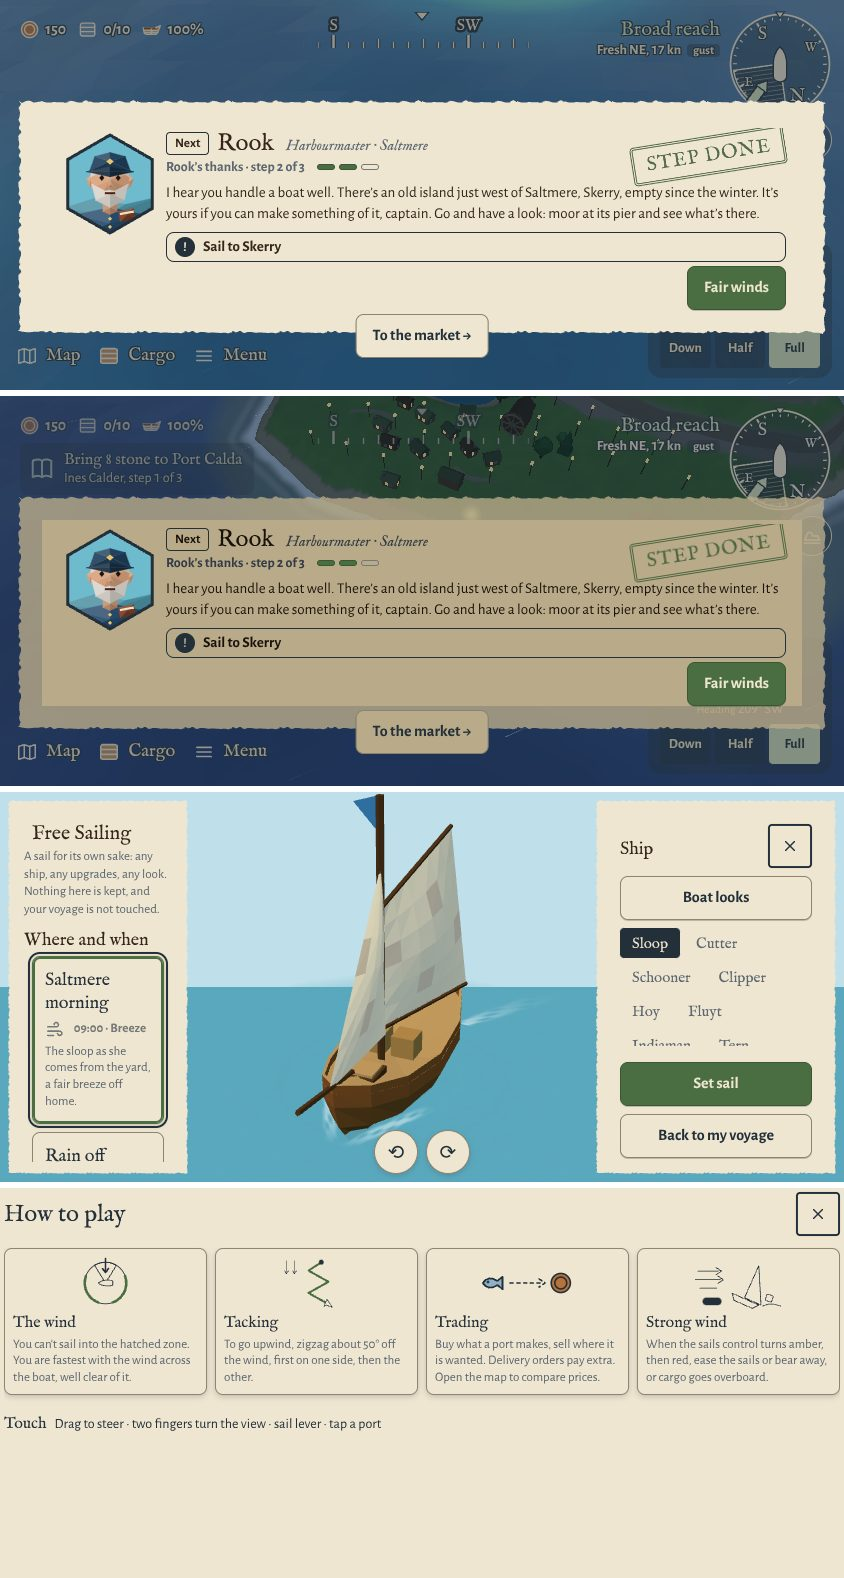
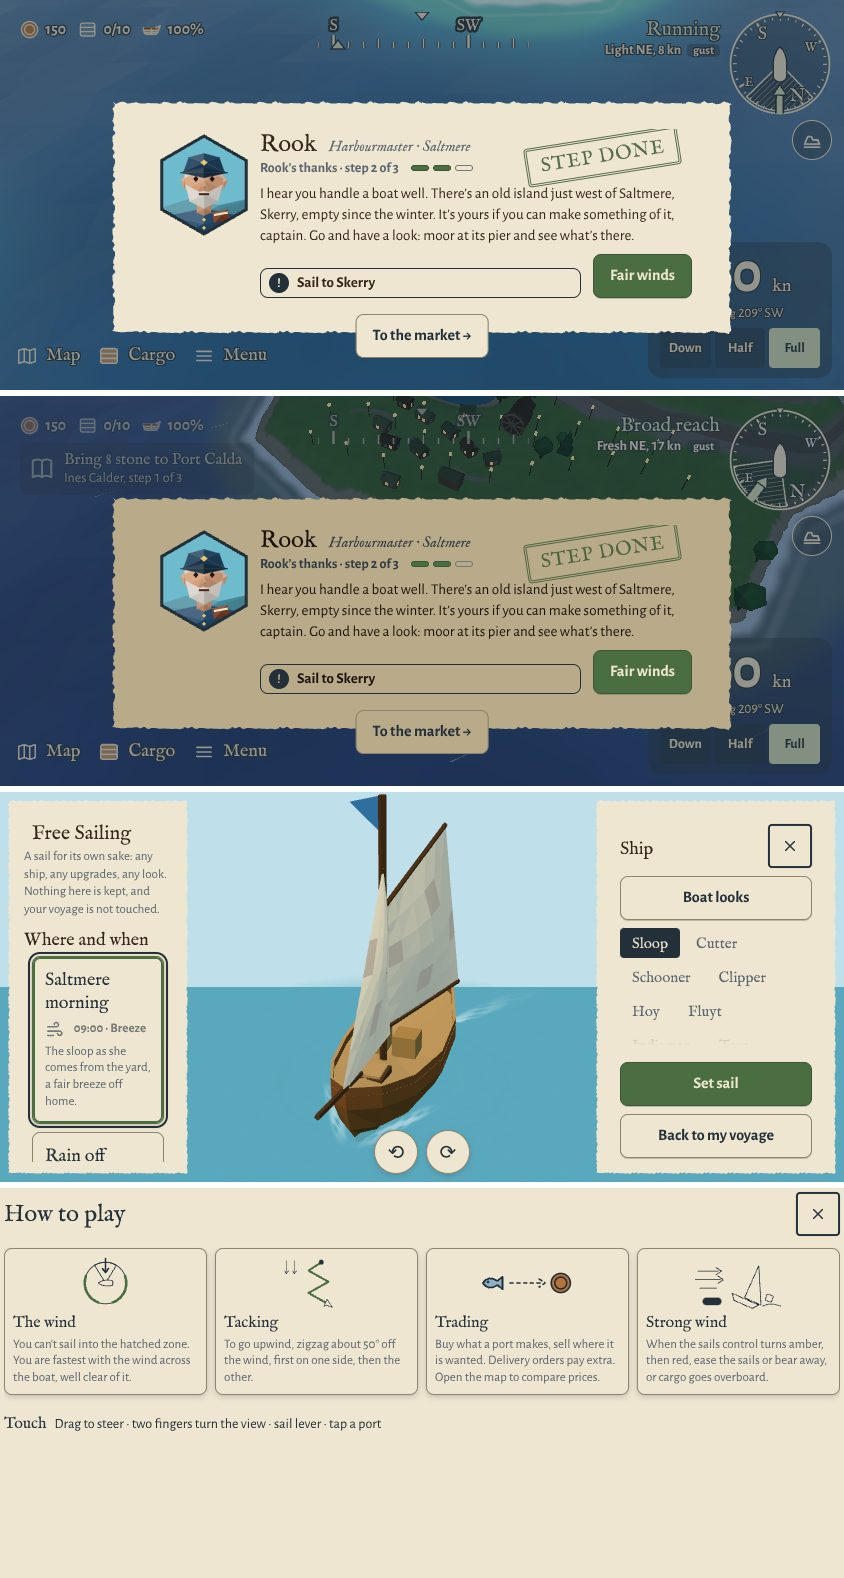
Wave 4 nits: narrower phone quest card clear of compass and lever, solid night card, edge fade on phone lists, centred help cards; split questLine out of questView
Claude-Session: https://claude.ai/code/session_013jvdBvtafBWATR4MzUdygr

diff --git a/src/ui/questView.ts b/src/ui/questView.ts
@@ -27,6 +27,7 @@ import { REGATTA } from '../sim/regatta';
 import { isDiscovered } from '../sim/shipyards';
 import { findPort, quoteHandOver } from '../sim/trade';
 import { type Character, type Mood, MOODS, character } from './portraits';
+import { lineNumber, mainLine } from './questLine';
 import { type RaceCardInfo, raceInfo, raceNext } from './regattaView';
 
 /*
@@ -341,7 +342,6 @@ export function cardFor(
   // A card counts the steps along the quest's main line, as a lesson's bubble does (decision
   // 0185); a step off it (Rook's offer to a stranger, 0190) counts as the step that leads there.
   const line = mainLine(quest);
-  const lineNo = (id: string) => lineNumber(quest, id);
   const card: QuestCardModel = {
     quest: quest.id,
     kind,
@@ -350,7 +350,7 @@ export function cardFor(
     look: step?.look,
     role: roleLine(map, giver),
     arc: arcName(quest),
-    stepNo: step ? lineNo(step.id) : line.length,
+    stepNo: step ? lineNumber(quest, step.id) : line.length,
     steps: line.length,
     speech: last
       ? tOptional(`${quest.text}.${last.id}.thanks`)
@@ -820,32 +820,6 @@ export interface LessonModel {
   port: string | null;
   /** The good whose market button the mark points at. */
   good: GoodId | null;
-}
-
-/**
- * A lesson's main line (decision 0151): from its first step, each step's goal (or, with none, its
- * first option) to the next. Steps off it are only reached by ways back and are not numbered.
- */
-/** A step's number on the main line; a step off it counts as the step that leads there. */
-export function lineNumber(quest: QuestDef, id: string): number {
-  const line = mainLine(quest);
-  return (
-    line.indexOf(id) + 1 ||
-    line.findIndex((l) => quest.steps.find((s) => s.id === l)?.unless?.some((w) => w.to === id)) + 1
-  );
-}
-
-export function mainLine(quest: QuestDef): string[] {
-  const out: string[] = [];
-  let step = quest.steps[0];
-  while (step && !out.includes(step.id)) {
-    out.push(step.id);
-    const next =
-      (step.goal ? step.next : (step.choose?.[0]?.next ?? step.next)) ??
-      quest.steps[quest.steps.indexOf(step) + 1]?.id;
-    step = quest.steps.find((s) => s.id === next);
-  }
-  return out;
 }
 
 /** The nearest charted harbour to the boat: the easiest first trip. */

diff --git a/src/ui/quests/card.css b/src/ui/quests/card.css
@@ -20,6 +20,7 @@ dialog.quest-card {
   /* Solid under the torn paper, so at night nothing of the sea or its signs shows through. */
   background: var(--ui-face) padding-box;
   color: var(--ui-ink);
+  border-image-source: var(--ui-edge-torn-solid);
 }
 /* The harbour's name is on the card; the world's signs wait while a card is open. */
 .card-open :is(#port-labels, #boat-labels, .hud-dock) {
@@ -274,7 +275,9 @@ dialog.quest-card.is-arrival::backdrop {
     --face: 104px;
     --clear-top: 100px;
     inset: auto 0 var(--ui-space-2) 0;
-    width: calc(100vw - 24px);
+    /* Narrower, on the left: the compass above and the sail lever at the right stay clear. */
+    width: calc(100vw - 24px - var(--card-gap-right, 200px));
+    margin-inline: 12px auto;
   }
   /* The face sits inside the card here, so the card can stop below the quest line. */
   .quest-face {
@@ -299,9 +302,26 @@ dialog.quest-card.is-arrival::backdrop {
   .quest-actions {
     margin-top: var(--ui-space-1);
   }
+  /* The stamp already says where the card stands. */
   .quest-tag {
-    float: left;
-    margin: 0 var(--ui-space-2) 0 0;
+    display: none;
+  }
+  /* The ask and the answer share a row, to fit the narrower card without scrolling. */
+  .quest-body {
+    display: grid;
+    grid-template-columns: 1fr auto;
+    align-items: end;
+    column-gap: var(--ui-space-3);
+  }
+  .quest-body > * {
+    grid-column: 1 / -1;
+  }
+  .quest-body > .quest-ask {
+    grid-column: 1;
+  }
+  .quest-body > .quest-actions {
+    grid-column: 2;
+    margin-top: var(--ui-space-2);
   }
   /* The harbour's name is already on the sea's sign: no header over the card here. */
   .quest-arrival {

diff --git a/src/ui/theme/model.ts b/src/ui/theme/model.ts
@@ -98,6 +98,8 @@ const ROLES: Record<string, [day: string, night: string]> = {
   '--ui-tab-rest': ['var(--ui-tab-paper)', 'var(--ui-tab-paper-night)'],
   '--ui-wash': ['var(--ui-sage-wash)', 'var(--ui-sage-wash-night)'],
   '--ui-edge-torn': ['var(--ui-edge-torn-day)', 'var(--ui-edge-torn-night)'],
+  // The same paper at night without its see-through, for a card that must hide the sea.
+  '--ui-edge-torn-solid': ['var(--ui-edge-torn-day)', 'var(--ui-edge-torn-night-solid)'],
   '--ui-edge-brushed': ['var(--ui-edge-brushed-day)', 'var(--ui-edge-brushed-night)'],
 };
 const roles = (time: 0 | 1) =>
@@ -145,6 +147,7 @@ export function dayTokens(theme: Theme): Record<string, string> {
     const [day, night, nightOpacity] = fills[name] ?? [c.paper ?? '', c['paper-night'] ?? '', 1];
     vars[`--ui-edge-${name}-day`] = edgeImage(edge, day);
     vars[`--ui-edge-${name}-night`] = edgeImage(edge, night, nightOpacity);
+    vars[`--ui-edge-${name}-night-solid`] = edgeImage(edge, night, 1);
     vars[`--ui-edge-${name}-slice`] = String(edge.slice);
     vars[`--ui-edge-${name}-width`] = `${edge.slice}px`;
   }

diff --git a/src/ui/questLine.ts b/src/ui/questLine.ts
@@ -1,0 +1,27 @@
+import type { QuestDef } from '../sim/quests';
+
+/**
+ * A lesson's main line (decision 0151): from its first step, each step's goal (or, with none, its
+ * first option) to the next. Steps off it are only reached by ways back and are not numbered.
+ */
+export function mainLine(quest: QuestDef): string[] {
+  const out: string[] = [];
+  let step = quest.steps[0];
+  while (step && !out.includes(step.id)) {
+    out.push(step.id);
+    const next =
+      (step.goal ? step.next : (step.choose?.[0]?.next ?? step.next)) ??
+      quest.steps[quest.steps.indexOf(step) + 1]?.id;
+    step = quest.steps.find((s) => s.id === next);
+  }
+  return out;
+}
+
+/** A step's number on the main line; a step off it counts as the step that leads there. */
+export function lineNumber(quest: QuestDef, id: string): number {
+  const line = mainLine(quest);
+  return (
+    line.indexOf(id) + 1 ||
+    line.findIndex((l) => quest.steps.find((s) => s.id === l)?.unless?.some((w) => w.to === id)) + 1
+  );
+}

diff --git a/tests/tutorial-data.test.ts b/tests/tutorial-data.test.ts
@@ -3,7 +3,7 @@ import en from '../src/i18n/en.json';
 import fr from '../src/i18n/fr.json';
 import { PHASE1_MAP } from '../src/data/maps';
 import { COACH_TARGETS, QUESTS, type QuestDef, checkQuests, questsFor } from '../src/sim/quests';
-import { mainLine } from '../src/ui/questView';
+import { mainLine } from '../src/ui/questLine';
 import { TUTORIAL, tutorialVoyage } from './helpers/tutorial';
 
 // Decision 0113 made the tutorial data; decision 0151 made it an ordinary quest file.

diff --git a/src/ui/harbour/quay.css b/src/ui/harbour/quay.css
@@ -209,3 +209,8 @@ html[data-layout='phone'] .hb-quay-card .quest-reward {
 html[data-layout='phone'] .hb-quay-card .quest-ask {
   font-size: var(--fs-text);
 }
+
+/* A phone's lists end in a soft edge, so a cut row reads as "more below". */
+html[data-layout='phone'] .hb-list {
+  mask-image: linear-gradient(to bottom, var(--ui-ink) calc(100% - 28px), transparent);
+}

diff --git a/src/ui/screens/help.css b/src/ui/screens/help.css
@@ -84,6 +84,8 @@
 /* A thin rule of a scrollbar always shows, so a cut card never looks like the end of the page. */
 .help-body {
   overflow-y: scroll;
+  /* Few cards on a big screen sit in the middle of the page, not at its top. */
+  justify-content: safe center;
   scrollbar-width: thin;
   scrollbar-color: var(--ui-ink-soft) transparent;
 }

diff --git a/src/ui/freeSailing/freeSailing.css b/src/ui/freeSailing/freeSailing.css
@@ -154,3 +154,7 @@ body.in-menu .free-badge {
 body.free-sailing :is(#menu-tutorial, #menu-transfer) {
   display: none;
 }
+
+html[data-layout='phone'] .fs-scroll {
+  mask-image: linear-gradient(to bottom, var(--ui-ink) calc(100% - 28px), transparent);
+}
